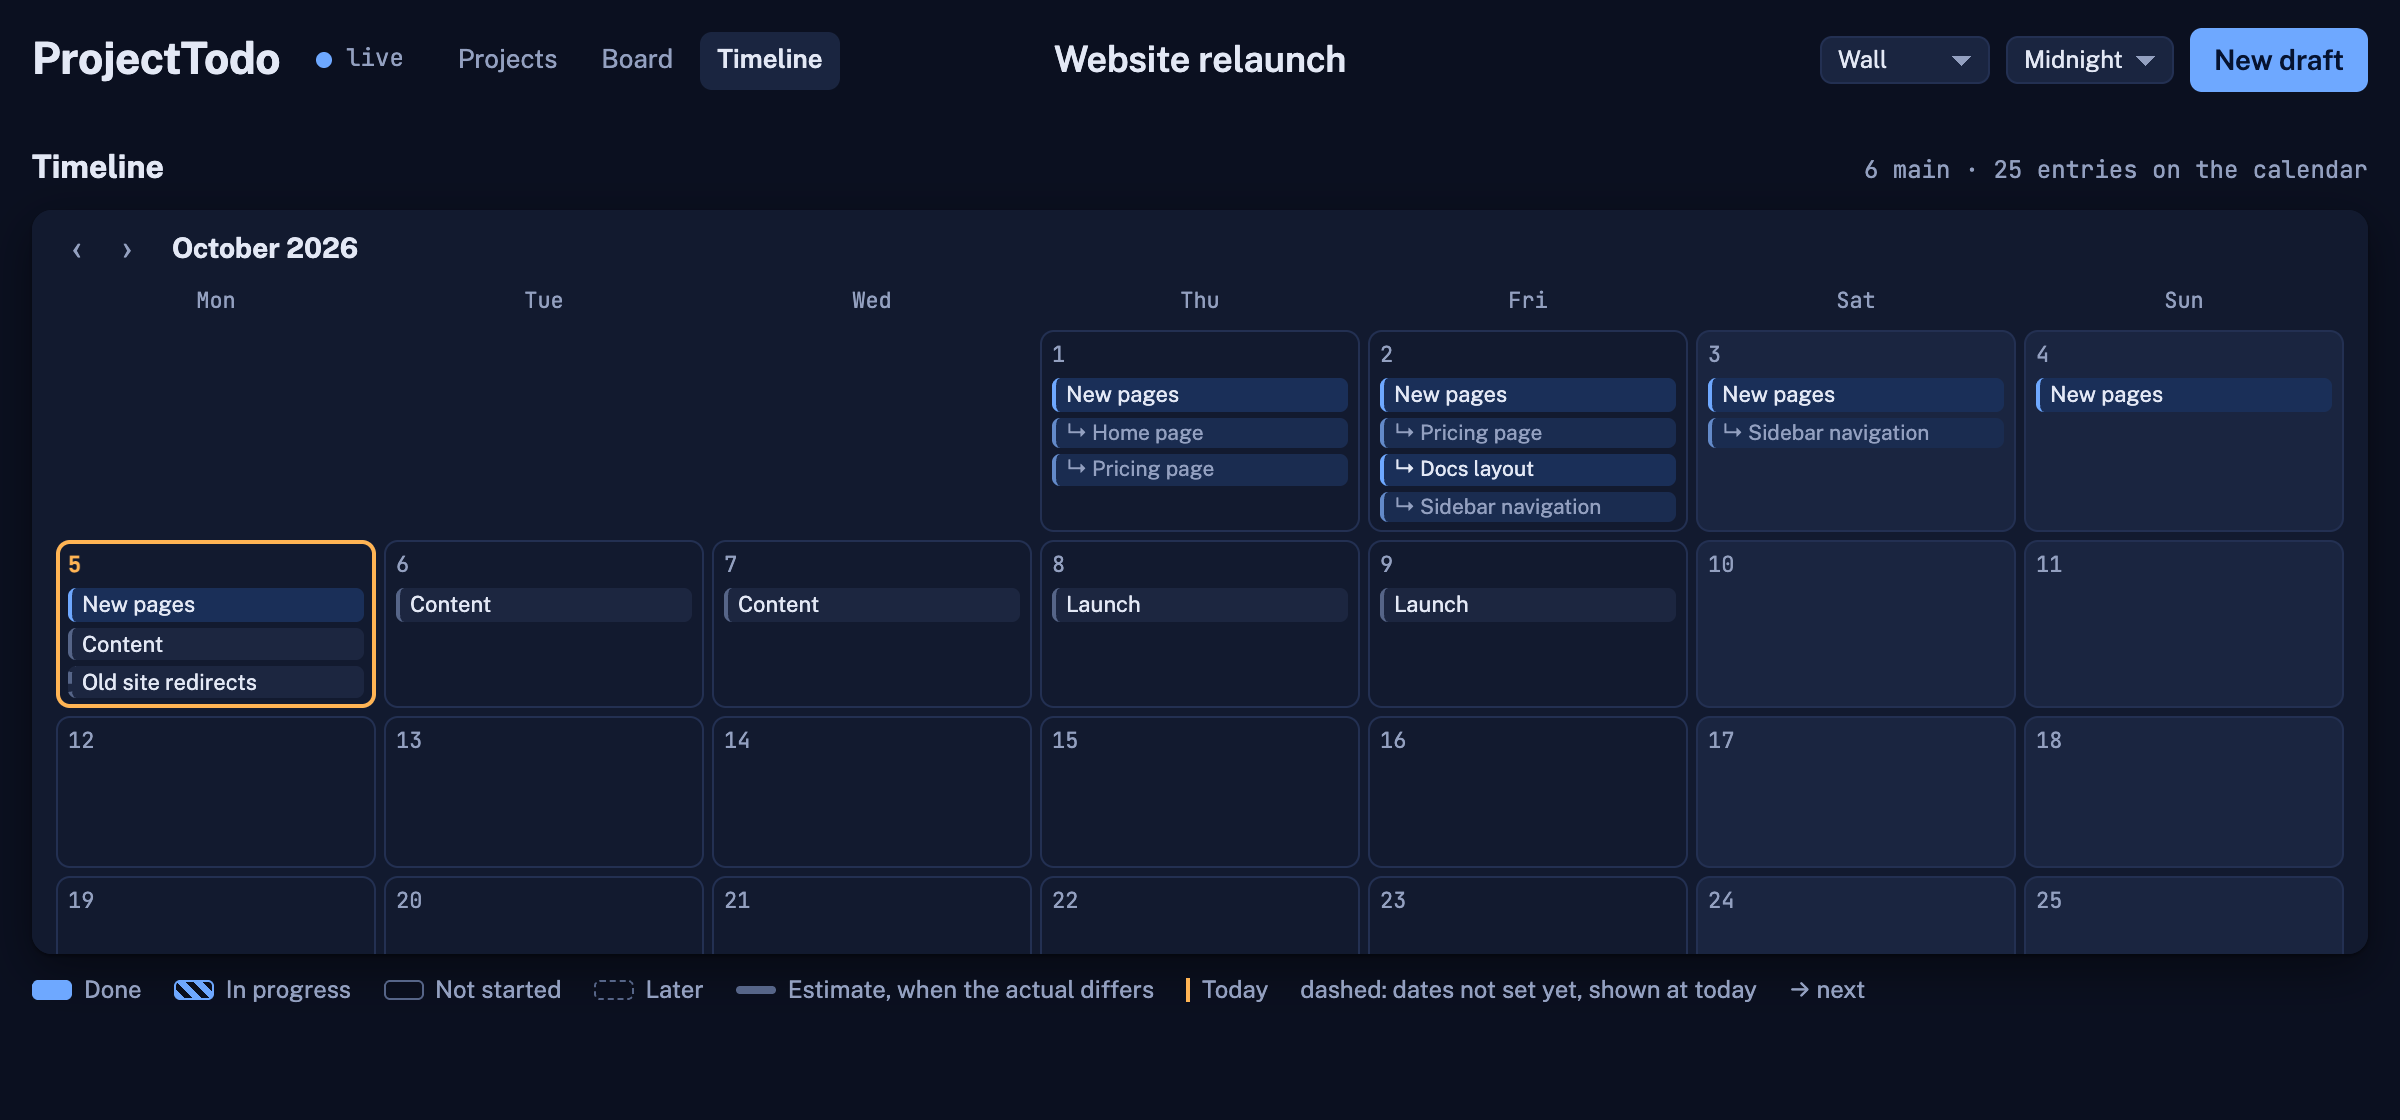
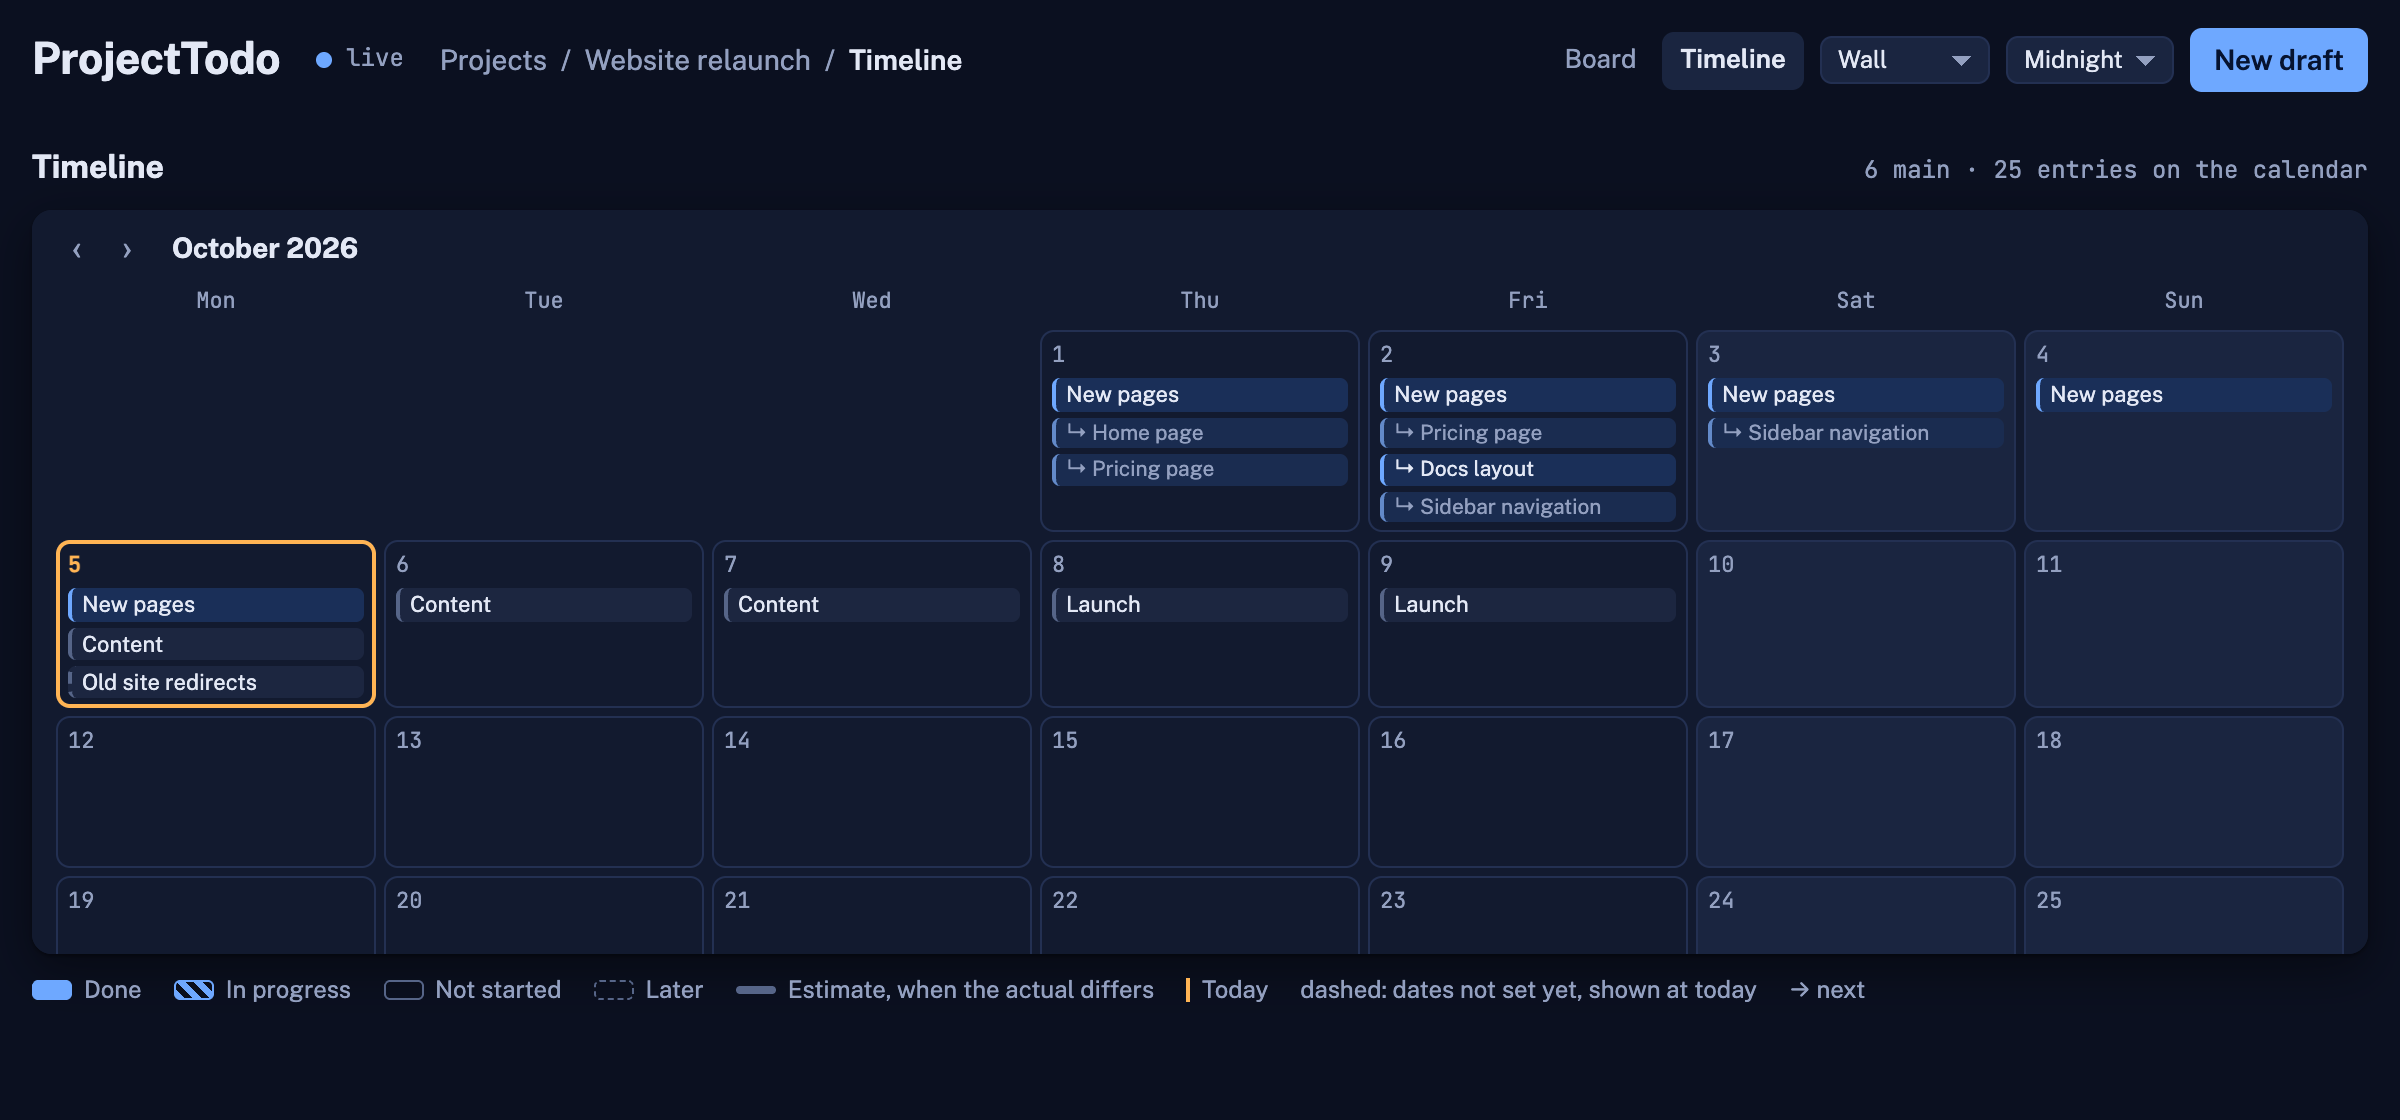
Update README and index.html to enhance navigation and user experience with project modules. Revise breadcrumb structure for clearer project hierarchy and improve timeline to-do visibility with a new switch for displaying all module to-dos. Update related styles for better layout and responsiveness 

Changed region(s): [[0.1875, 0.0312, 0.4062, 0.0938], [0.6562, 0.0312, 0.75, 0.0938], [0.4375, 0.0312, 0.5625, 0.0625]]

diff --git a/public/index.html b/public/index.html
@@ -177,10 +177,14 @@ code { font-family: var(--font-mono); }
 
 /* Header */
 /* The header: the brand, the live dot and the pages on the left, the project's name in the middle, the menus on the right. */
-.top { display: grid; grid-template-columns: 1fr auto 1fr; align-items: center; gap: 8px 18px; }
+.top { display: grid; grid-template-columns: 1fr auto; align-items: center; gap: 8px 18px; }
 .top-left { display: flex; align-items: center; gap: 8px 18px; flex-wrap: wrap; min-width: 0; }
-.project-title { text-align: center; font-size: 18px; font-weight: 600; letter-spacing: -0.005em; min-width: 0; overflow-wrap: anywhere; }
-@media (max-width: 900px) { .top { grid-template-columns: 1fr auto; } .project-title { grid-column: 1 / -1; grid-row: 2; text-align: left; font-size: 16px; } }
+.crumbs { display: flex; align-items: center; flex-wrap: wrap; gap: 2px 7px; font-size: 14px; min-width: 0; }
+.crumbs a { color: var(--muted); text-decoration: none; }
+.crumbs a:hover { color: var(--fg); text-decoration: underline; }
+.crumbs .sep { color: var(--muted); }
+.crumbs .here { font-weight: 600; }
+@media (max-width: 900px) { .top { grid-template-columns: 1fr; } .top-actions { margin-left: 0; flex-wrap: wrap; } }
 .brand { display: flex; align-items: baseline; gap: 10px; flex-wrap: wrap; }
 .brand h1 { margin: 0; font-size: 22px; font-weight: 700; letter-spacing: -0.01em; }
 .brand .sub { color: var(--muted); font-weight: 500; }
@@ -323,9 +327,6 @@ html[data-layout="wall"] .zoom { display: none; }
 .module-line .edit { position: absolute; top: 5px; right: 6px; opacity: 0; }
 .module-line:hover .edit, .module-line:focus-within .edit { opacity: 1; }
 .add-module { align-self: flex-start; font-size: 12px; padding: 3px 10px; }
-.project-title .crumb { color: var(--muted); text-decoration: none; }
-.project-title .crumb:hover { text-decoration: underline; }
-.project-title .crumb-sep { color: var(--muted); }
 .f.check { flex-direction: row; align-items: center; gap: 8px; color: var(--fg); font-size: 13px; }
 /* The details view: what a to-do is, read at a glance; Edit opens the form. */
 .dv-dialog { width: min(540px, 100%); }
@@ -596,7 +597,7 @@ svg.tl { display: block; font-family: var(--font-ui); }
   .dm-sheet { max-height: 48dvh; }
   .wrap { padding-inline: 10px; padding-top: 10px; }
   .top-left { gap: 6px 12px; }
-  .project-title { font-size: 16px; }
+  .crumbs { font-size: 13px; }
   .sec-head h2 { font-size: 15px; }
 }
 </style>
@@ -606,10 +607,10 @@ svg.tl { display: block; font-family: var(--font-ui); }
     <div class="top-left">
       <div class="brand"><h1>ProjectTodo</h1></div>
       <span class="live" id="live"><span class="dot"></span><span id="live-text">connecting</span></span>
-      <nav class="jump" aria-label="Pages"><a href="/" data-view="projects">Projects</a><a href="/" data-view="board" id="nav-board">Board</a><a href="/" data-view="tree" id="nav-tree">Timeline</a></nav>
+      <nav class="crumbs" id="crumbs" aria-label="Where you are"><span class="here">Projects</span></nav>
     </div>
-    <div class="project-title" id="brand-sub">Projects</div>
     <div class="top-actions">
+      <nav class="jump" aria-label="Pages"><a href="/" data-view="board" id="nav-board">Board</a><a href="/" data-view="tree" id="nav-tree">Timeline</a></nav>
       <select class="theme-pick" id="layout" aria-label="Layout" title="Layout">
         <option value="">Classic</option>
         <option value="compact">Compact</option>
@@ -644,7 +645,7 @@ svg.tl { display: block; font-family: var(--font-ui); }
   </section>
 
   <section id="timeline">
-    <div class="sec-head"><h2>Timeline</h2><span class="zoom" role="group" aria-label="Zoom"><button class="icon-btn" id="tl-out" type="button" title="Zoom out (Cmd and minus, or Cmd and scroll)" aria-label="Zoom out">−</button><button class="zoom-level" id="tl-zoom" type="button" title="Back to 100%">100%</button><button class="icon-btn" id="tl-in" type="button" title="Zoom in (Cmd and plus, or Cmd and scroll)" aria-label="Zoom in">+</button></span><label class="tl-opt" id="tl-show-wrap" hidden title="Hang each module's main to-dos under its bar"><input type="checkbox" id="tl-show-todos"> Show to-dos</label><span class="counts" id="tl-counts"></span></div>
+    <div class="sec-head"><h2>Timeline</h2><span class="zoom" role="group" aria-label="Zoom"><button class="icon-btn" id="tl-out" type="button" title="Zoom out (Cmd and minus, or Cmd and scroll)" aria-label="Zoom out">−</button><button class="zoom-level" id="tl-zoom" type="button" title="Back to 100%">100%</button><button class="icon-btn" id="tl-in" type="button" title="Zoom in (Cmd and plus, or Cmd and scroll)" aria-label="Zoom in">+</button></span><label class="tl-opt" id="tl-show-wrap" hidden title="Hang every to-do of every module under its bar, with their trees"><input type="checkbox" id="tl-show-todos"> Show all module to-dos</label><span class="counts" id="tl-counts"></span></div>
     <div class="tl-panel" id="tl-wrap"><div class="empty">Loading…</div></div>
     <div class="legend" aria-label="Legend">
       <span><i class="sw done"></i>Done</span>
@@ -1669,7 +1670,8 @@ svg.tl { display: block; font-family: var(--font-ui); }
       const planned = spans.filter(sp => sp.est);
       if (planned.length) { bar.planned_start = dayStr(Math.min(...planned.map(sp => sp.est[0]))); bar.planned_end = dayStr(Math.max(...planned.map(sp => sp.est[1]))); }
       extra.push(bar);
-      if (showTodos) for (const r of mains) extra.push({ ...r, parent_id: bar.id, module: m.id });
+      // with the switch on, every to-do of the module hangs under the bar with its tree (user, 2026-10-05: "we need full")
+      if (showTodos) for (const row of midx.rows) { const r = row.it; if (statusOf(r) === "draft" || row.anc.some(a => statusOf(midx.byId.get(a) || {}) === "draft")) continue; extra.push({ ...r, parent_id: row.depth === 0 ? bar.id : r.parent_id, module: m.id }); }
     });
     return buildIndex([...state.items, ...extra]);
   }
@@ -2762,6 +2764,18 @@ svg.tl { display: block; font-family: var(--font-ui); }
     },
   };
   let loading = null;
+  // Projects / project / module / view, after the live label (user, 2026-10-05)
+  function renderCrumbs() {
+    const box = $("#crumbs");
+    const project = currentProject();
+    if (!project) { box.replaceChildren(el("span", { class: "here", text: "Projects" })); return; }
+    const parent = project.parent_id ? state.projects.find(p => p.id === project.parent_id) : null;
+    const parts = [el("a", { href: "/", text: "Projects" })];
+    if (parent) parts.push(el("a", { href: `/p/${encodeURIComponent(parent.id)}`, text: parent.name, title: `${parent.name}: the project's board` }));
+    parts.push(el("a", { href: `/p/${encodeURIComponent(project.id)}`, text: project.name, title: `${project.name}: its board` }));
+    parts.push(el("span", { class: "here", text: state.view === "tree" ? "Timeline" : "Board" }));
+    box.replaceChildren(...parts.flatMap((p, i) => i ? [el("span", { class: "sep", text: "/" }), p] : [p]));
+  }
   function loadAll() {
     if (loading) return loading;
     loading = Promise.all([call("GET", "/api/projects"), state.project ? call("GET", `/api/todos?project=${encodeURIComponent(state.project)}&modules=1`) : Promise.resolve({ todos: [] })]).then(([p, t]) => {
@@ -2771,8 +2785,7 @@ svg.tl { display: block; font-family: var(--font-ui); }
       state.loaded = true;
       const project = currentProject();
       const parent = project && project.parent_id ? state.projects.find(p => p.id === project.parent_id) : null;
-      if (parent) $("#brand-sub").replaceChildren(el("a", { class: "crumb", href: `/p/${encodeURIComponent(parent.id)}/tree`, title: `${parent.name}: its timeline, with the modules`, text: parent.name }), el("span", { class: "crumb-sep", text: " › " }), el("span", { text: project.name }));
-      else $("#brand-sub").textContent = project ? project.name : "";   // the page links already say Projects
+      renderCrumbs();
       document.title = project ? `${project.name}${parent ? ` · ${parent.name}` : ""} · ProjectTodo` : "ProjectTodo";
       if (state.project && !project) banner("There is no project with this id. Go back to the projects page.");
       render();

diff --git a/README.md b/README.md
@@ -19,9 +19,12 @@ to-dos you see.
   Done; new modules start in Next), whatever is inside it. The projects page lists a
   project's modules with that status, how many main to-dos are done and the current one;
   on the project's board a module is a card of its own in that lane, marked Module, which
-  opens the module's board; drag the card to another lane to change its status; "+ Module" adds one, and a module's pages say "Project › Module". The project's own
+  opens the module's board; drag the card to another lane to change its status; "+ Module" adds one. The header's breadcrumb reads Projects / project / module / Board or
+  Timeline, each part a link, and the Board and Timeline switch sits at the right by the
+  layout picker. The project's own
   timeline shows each module as a bar from its earliest start to its latest end, with a
-  "Show to-dos" switch that hangs the module's main to-dos under it. To move a to-do into
+  "Show all module to-dos" switch that hangs every to-do of every module under its bar,
+  trees included. To move a to-do into
   a module, drop its card on the module's card; to move it back to the project or to
   another module, pick the place in the editor's In field; everything under it moves along.
 - **Board**: lanes for Drafts, Current, Next, Done and Later. Press **+** on Drafts (or
